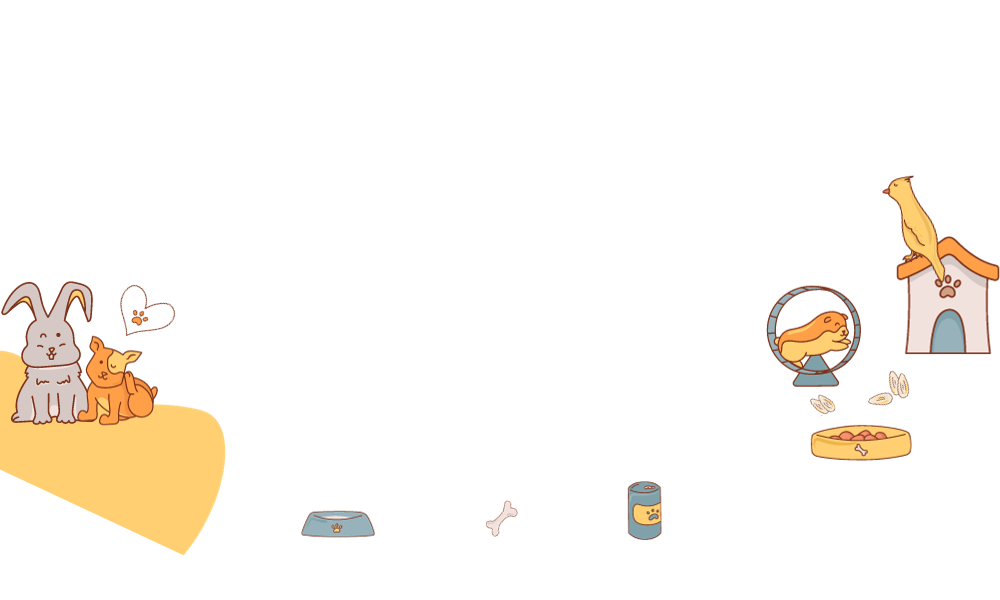
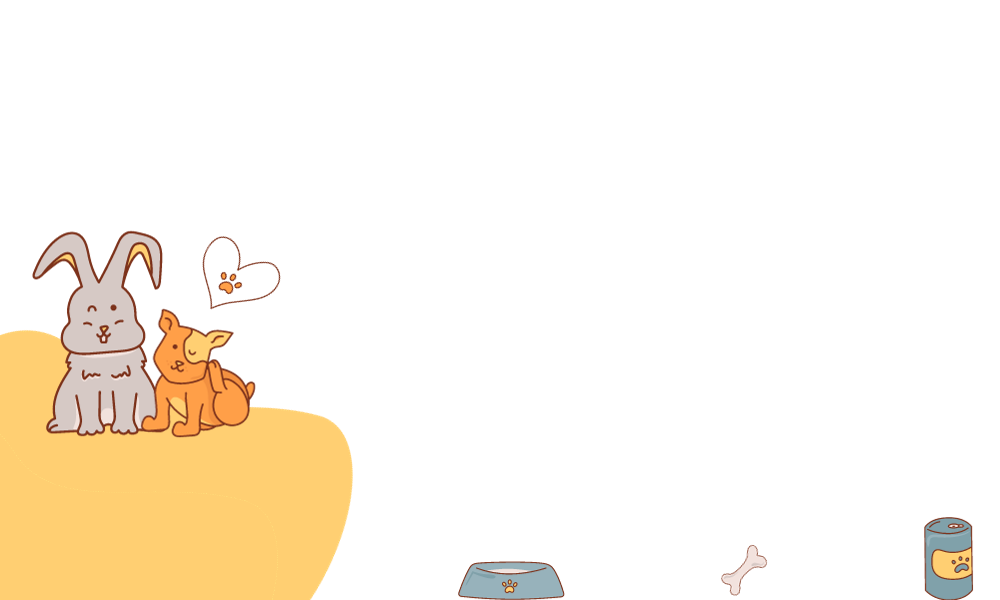
Ajuste do fundo do index e estrutura das informaçoes do animal

diff --git a/pages/animal.html b/pages/animal.html
@@ -6,9 +6,10 @@
     <meta name="viewport" content="width=device-width, initial-scale=1.0">
     <title>Meu Amigãozinho</title>
     <script type="text/javascript" src="../scripts/script.js"></script>
+    <script src="../scripts/animal.js" defer></script>
     <link rel="stylesheet" href="../styles/style.css">
     <link rel="stylesheet" href="../styles/animal.css">
-    <link rel="stylesheet" href="./styles/classeAnimal.css">
+    <link rel="stylesheet" href="../styles/classeAnimal.css">
     <link rel="shortcut icon" href="../favicon.ico" type="image/x-icon">
 </head>
 <body>
@@ -27,7 +28,7 @@
             <li><a href="./login.html">Login</a></li>
             <li><a href="./cadastro.html">Cadastrar</a></li>
         </ul>
-        <h1 id="nome">Meu Amigãozinho</h1>
+        <h1 id="nome-marca">Meu Amigãozinho</h1>
         <button class="menu-button" onclick="openNav()">
             <img src="../img/barra-de-menu.png" alt="menu">
         </button>
@@ -48,6 +49,27 @@
             </ul>
         </div>
       </header>
+        <section>
+            <div>
+                <div id="img"><img src="../img/card-1.jpg" alt=""></div>
+                <div id="nome"><h1>Floquinho</h1></div>
+                <div id="especie"><h3>Espécie: </h2><p></p></div>
+                <div id="porte"><h3>Porte: </h3></div>
+                <div id="sexo"><h3>Sexo: </h2><p></p></div>
+                <div id="idade"><h3>Idade: </h2><p></p></div>
+                    <div>
+                        <h2>Histórico de Saude</h2>
+                        <div id="vacinas"><h3>Vacinas: </h3><p></p></div>
+                        <div id="pulgas"><h3>Tratamento contra Pulga: </h3><p></p></div>
+                        <div id="castracao"><h3>Castração: </h3><p></p></div>
+                    </div>
+                    <div>
+                        <h2>Mais detalhes</h2>
+                        <div id="temperamento"><h3>Temperamento: </h3><p></p></div>
+                        <div id="observacao"><h3>Observação: </h3><p></p></div>
+                    </div>
+            </div>
+        </section>
       <main></main>
       <footer>
              <div id="footer_content">

diff --git a/index.html b/index.html
@@ -31,7 +31,7 @@
             <li><a href="./pages/login.html">Login</a></li>
             <li><a href="./pages/cadastro.html">Cadastrar</a></li>
         </ul>
-        <h1 id="nome">Meu Amigãozinho</h1>
+        <h1 id="nome-marca">Meu Amigãozinho</h1>
         <button class="menu-button" onclick="openNav()">
             <img src="./img/barra-de-menu.png" alt="menu">
         </button>

diff --git a/pages/adotar.html b/pages/adotar.html
@@ -29,7 +29,7 @@
             <li><a href="./login.html">Login</a></li>
             <li><a href="./cadastro.html">Cadastrar</a></li>
         </ul>
-        <h1 id="nome">Meu Amigãozinho</h1>
+        <h1 id="nome-marca">Meu Amigãozinho</h1>
         <button class="menu-button" onclick="openNav()">
             <img src="../img/barra-de-menu.png" alt="menu">
         </button>

diff --git a/pages/cadastraranimal.html b/pages/cadastraranimal.html
@@ -29,7 +29,7 @@
             <li><a href="./login.html">Login</a></li>
             <li><a href="./cadastro.html">Cadastrar</a></li>
         </ul>
-        <h1 id="nome">Meu Amigãozinho</h1>
+        <h1 id="nome-marca">Meu Amigãozinho</h1>
         <button class="menu-button" onclick="openNav()">
             <img src="../img/barra-de-menu.png" alt="menu">
         </button>

diff --git a/pages/cadastro.html b/pages/cadastro.html
@@ -27,7 +27,7 @@
             <li><a href="./login.html">Login</a></li>
             <li><a href="./cadastro.html">Cadastrar</a></li>
         </ul>
-        <h1 id="nome">Meu Amigãozinho</h1>
+        <h1 id="nome-marca">Meu Amigãozinho</h1>
         <button class="menu-button" onclick="openNav()">
             <img src="../img/barra-de-menu.png" alt="menu">
         </button>

diff --git a/pages/login.html b/pages/login.html
@@ -27,7 +27,7 @@
             <li><a href="./login.html">Login</a></li>
             <li><a href="./cadastro.html">Cadastrar</a></li>
         </ul>
-        <h1 id="nome">Meu Amigãozinho</h1>
+        <h1 id="nome-marca">Meu Amigãozinho</h1>
         <button class="menu-button" onclick="openNav()">
             <img src="../img/barra-de-menu.png" alt="menu">
         </button>

diff --git a/pages/modelo.html b/pages/modelo.html
@@ -28,7 +28,7 @@
             <li><a href="./login.html">Login</a></li>
             <li><a href="./cadastro.html">Cadastrar</a></li>
         </ul>
-        <h1 id="nome">Meu Amigãozinho</h1>
+        <h1 id="nome-marca">Meu Amigãozinho</h1>
         <button class="menu-button" onclick="openNav()">
             <img src="../img/barra-de-menu.png" alt="menu">
         </button>

diff --git a/pages/mural.html b/pages/mural.html
@@ -27,7 +27,7 @@
             <li><a href="./login.html">Login</a></li>
             <li><a href="./cadastro.html">Cadastrar</a></li>
         </ul>
-        <h1 id="nome">Meu Amigãozinho</h1>
+        <h1 id="nome-marca">Meu Amigãozinho</h1>
         <button class="menu-button" onclick="openNav()">
             <img src="../img/barra-de-menu.png" alt="menu">
         </button>

diff --git a/pages/perfil.html b/pages/perfil.html
@@ -29,7 +29,7 @@
             <li><a href="./login.html">Login</a></li>
             <li><a href="./cadastro.html">Cadastrar</a></li>
         </ul>
-        <h1 id="nome">Meu Amigãozinho</h1>
+        <h1 id="nome-marca">Meu Amigãozinho</h1>
         <button class="menu-button" onclick="openNav()">
             <img src="../img/barra-de-menu.png" alt="menu">
         </button>

diff --git a/pages/quem-somos.html b/pages/quem-somos.html
@@ -29,7 +29,7 @@
             <li><a href="./login.html">Login</a></li>
             <li><a href="./cadastro.html">Cadastrar</a></li>
         </ul>
-        <h1 id="nome">Meu Amigãozinho</h1>
+        <h1 id="nome-marca">Meu Amigãozinho</h1>
         <button class="menu-button" onclick="openNav()">
             <img src="../img/barra-de-menu.png" alt="menu">
         </button>

diff --git a/pages/recuperarsenha.html b/pages/recuperarsenha.html
@@ -27,7 +27,7 @@
             <li><a href="./login.html">Login</a></li>
             <li><a href="./cadastro.html">Cadastrar</a></li>
         </ul>
-        <h1 id="nome">Meu Amigãozinho</h1>
+        <h1 id="nome-marca">Meu Amigãozinho</h1>
         <button class="menu-button" onclick="openNav()">
             <img src="../img/barra-de-menu.png" alt="menu">
         </button>

diff --git a/styles/style.css b/styles/style.css
@@ -107,7 +107,7 @@ img[src*="logo"] {
 
 /*Mobile*/
 
-#nome {
+#nome-marca {
     display: none;
     font-size: 100%;
 }
@@ -140,7 +140,7 @@ img[src*="logo"] {
     #log {
         display: none;
     }
-    #nome {
+    #nome-marca {
         display: block;
     }
     .menu-button {
